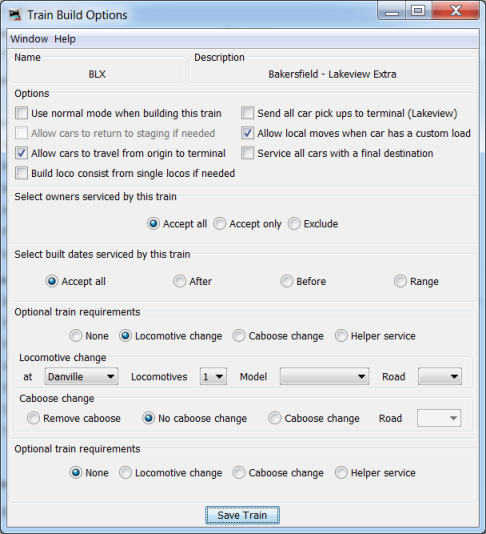
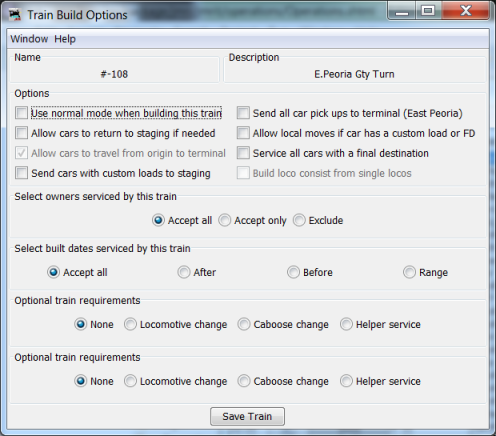
New feature for a train, the ability to send a car to staging even if a spur has an alternate track

diff --git a/java/src/jmri/jmrit/operations/trains/Train.java b/java/src/jmri/jmrit/operations/trains/Train.java
@@ -72,6 +72,7 @@ public class Train implements java.beans.PropertyChangeListener {
 	protected boolean _allowCarsReturnStaging = false; // when true allow cars to return to staging if necessary
 	protected boolean _serviceAllCarsWithFinalDestinations = false; // when true, service cars with final destinations
 	protected boolean _buildConsist = false; // when true, build a consist for this train using single locomotives
+	protected boolean _sendCarsWithCustomLoadsToStaging = false; // when true, send cars to staging if spurs full
 	protected Route _route = null;
 	protected Track _departureTrack; // the departure track from staging
 	protected Track _terminationTrack; // the termination track into staging
@@ -2454,6 +2455,19 @@ public class Train implements java.beans.PropertyChangeListener {
 		}
 	}
 
+	public boolean isSendCarsWithCustomLoadsToStagingEnabled() {
+		return _sendCarsWithCustomLoadsToStaging;
+	}
+
+	public void setSendCarsWithCustomLoadsToStagingEnabled(boolean enable) {
+		boolean old = _sendCarsWithCustomLoadsToStaging;
+		_sendCarsWithCustomLoadsToStaging = enable;
+		if (old != enable) {
+			setDirtyAndFirePropertyChange("SendCarsWithCustomLoadsToStaging", old ? "true" : "false", // NOI18N
+					enable ? "true" : "false"); // NOI18N
+		}
+	}
+
 	protected void setBuilt(boolean built) {
 		boolean old = _built;
 		_built = built;
@@ -3329,6 +3343,8 @@ public class Train implements java.beans.PropertyChangeListener {
 			_serviceAllCarsWithFinalDestinations = a.getValue().equals(Xml.TRUE);
 		if ((a = e.getAttribute(Xml.BUILD_CONSIST)) != null)
 			_buildConsist = a.getValue().equals(Xml.TRUE);
+		if ((a = e.getAttribute(Xml.SEND_CUSTOM_STAGING)) != null)
+			_sendCarsWithCustomLoadsToStaging = a.getValue().equals(Xml.TRUE);
 		if ((a = e.getAttribute(Xml.BUILT)) != null)
 			_built = a.getValue().equals(Xml.TRUE);
 		if ((a = e.getAttribute(Xml.BUILD)) != null)
@@ -3531,6 +3547,7 @@ public class Train implements java.beans.PropertyChangeListener {
 		e.setAttribute(Xml.ALLOW_RETURN, isAllowReturnToStagingEnabled() ? Xml.TRUE : Xml.FALSE);
 		e.setAttribute(Xml.ALLOW_THROUGH_CARS, isAllowThroughCarsEnabled() ? Xml.TRUE : Xml.FALSE);
 		e.setAttribute(Xml.SERVICE_ALL, isServiceAllCarsWithFinalDestinationsEnabled() ? Xml.TRUE : Xml.FALSE);
+		e.setAttribute(Xml.SEND_CUSTOM_STAGING, isSendCarsWithCustomLoadsToStagingEnabled() ? Xml.TRUE : Xml.FALSE);
 		e.setAttribute(Xml.BUILD_CONSIST, isBuildConsistEnabled() ? Xml.TRUE : Xml.FALSE);
 		e.setAttribute(Xml.BUILT, isBuilt() ? Xml.TRUE : Xml.FALSE);
 		e.setAttribute(Xml.BUILD, isBuildEnabled() ? Xml.TRUE : Xml.FALSE);

diff --git a/java/src/jmri/jmrit/operations/trains/TrainEditBuildOptionsFrame.java b/java/src/jmri/jmrit/operations/trains/TrainEditBuildOptionsFrame.java
@@ -120,6 +120,7 @@ public class TrainEditBuildOptionsFrame extends OperationsFrame implements java.
 	JCheckBox allowLocalMovesCheckBox = new JCheckBox(Bundle.getMessage("AllowLocalMoves"));
 	JCheckBox allowThroughCarsCheckBox = new JCheckBox(Bundle.getMessage("AllowThroughCars"));
 	JCheckBox serviceAllCarsCheckBox = new JCheckBox(Bundle.getMessage("ServiceAllCars"));
+	JCheckBox sendCustomStagngCheckBox = new JCheckBox(Bundle.getMessage("SendCustomToStaging"));
 	JCheckBox buildConsistCheckBox = new JCheckBox(Bundle.getMessage("BuildConsist"));
 
 	// text field
@@ -205,7 +206,8 @@ public class TrainEditBuildOptionsFrame extends OperationsFrame implements java.
 		addItemLeft(pOption, allowLocalMovesCheckBox, 1, 1);
 		addItemLeft(pOption, allowThroughCarsCheckBox, 0, 2);
 		addItemLeft(pOption, serviceAllCarsCheckBox, 1, 2);
-		addItemLeft(pOption, buildConsistCheckBox, 0, 3);
+		addItemLeft(pOption, sendCustomStagngCheckBox, 0, 3);
+		addItemLeft(pOption, buildConsistCheckBox, 1, 3);
 		pOption.setMaximumSize(new Dimension(2000, 250));
 
 		returnStagingCheckBox.setEnabled(false); // only enable if train departs and returns to same staging loc
@@ -388,6 +390,7 @@ public class TrainEditBuildOptionsFrame extends OperationsFrame implements java.
 			allowLocalMovesCheckBox.setSelected(_train.isAllowLocalMovesEnabled());
 			allowThroughCarsCheckBox.setSelected(_train.isAllowThroughCarsEnabled());
 			serviceAllCarsCheckBox.setSelected(_train.isServiceAllCarsWithFinalDestinationsEnabled());
+			sendCustomStagngCheckBox.setSelected(_train.isSendCarsWithCustomLoadsToStagingEnabled());
 			buildConsistCheckBox.setSelected(_train.isBuildConsistEnabled());
 			sendToTerminalCheckBox.setText(MessageFormat.format(Bundle.getMessage("SendToTerminal"),
 					new Object[] { _train.getTrainTerminatesName() }));
@@ -733,6 +736,7 @@ public class TrainEditBuildOptionsFrame extends OperationsFrame implements java.
 		_train.setAllowLocalMovesEnabled(allowLocalMovesCheckBox.isSelected());
 		_train.setAllowThroughCarsEnabled(allowThroughCarsCheckBox.isSelected());
 		_train.setServiceAllCarsWithFinalDestinationsEnabled(serviceAllCarsCheckBox.isSelected());
+		_train.setSendCarsWithCustomLoadsToStagingEnabled(sendCustomStagngCheckBox.isSelected());
 		_train.setBuildConsistEnabled(buildConsistCheckBox.isSelected());
 		_train.setBuiltStartYear(builtAfterTextField.getText().trim());
 		_train.setBuiltEndYear(builtBeforeTextField.getText().trim());

diff --git a/java/src/jmri/jmrit/operations/trains/TrainBuilder.java b/java/src/jmri/jmrit/operations/trains/TrainBuilder.java
@@ -175,6 +175,8 @@ public class TrainBuilder extends TrainCommon {
 			addLine(buildReport, FIVE, Bundle.getMessage("AllowThroughCars"));
 		if (train.isServiceAllCarsWithFinalDestinationsEnabled())
 			addLine(buildReport, FIVE, Bundle.getMessage("ServiceAllCars"));
+		if (train.isSendCarsWithCustomLoadsToStagingEnabled())
+			addLine(buildReport, FIVE, Bundle.getMessage("SendCustomToStaging"));
 		if (train.isBuildConsistEnabled())
 			addLine(buildReport, FIVE, Bundle.getMessage("BuildConsist"));
 		addLine(buildReport, ONE, BLANK_LINE); // add line
@@ -2553,7 +2555,7 @@ public class TrainBuilder extends TrainCommon {
 		if (car.getLoadName().equals(CarLoads.instance().getDefaultEmptyName())
 				|| car.getLoadName().equals(CarLoads.instance().getDefaultLoadName()) || car.getDestination() != null
 				|| car.getFinalDestination() != null)
-			return routeToSpurFound; // no schedule found for this car
+			return false; // no schedule found for this car
 		addLine(buildReport, FIVE, MessageFormat.format(Bundle.getMessage("buildSearchForSpur"),
 				new Object[] { car.toString(), car.getTypeName(), car.getLoadName(),
 						car.getLocationName() + ", " + car.getTrackName() }));
@@ -2641,7 +2643,7 @@ public class TrainBuilder extends TrainCommon {
 		}
 		addLine(buildReport, SEVEN, MessageFormat.format(Bundle.getMessage("buildCouldNotFindSpur"), new Object[] {
 				car.toString(), car.getLoadName() }));
-		if (routeToSpurFound) {
+		if (routeToSpurFound && !train.isSendCarsWithCustomLoadsToStagingEnabled()) {
 			addLine(buildReport, SEVEN, MessageFormat.format(Bundle.getMessage("buildHoldCarVaildRoute"), new Object[] {
 				car.toString(), car.getLocationName(), car.getTrackName() }));
 		} else {

diff --git a/java/src/jmri/jmrit/operations/trains/TrainManager.java b/java/src/jmri/jmrit/operations/trains/TrainManager.java
@@ -680,6 +680,7 @@ public class TrainManager implements java.beans.PropertyChangeListener {
 		newTrain.setAllowReturnToStagingEnabled(train.isAllowReturnToStagingEnabled());
 		newTrain.setAllowThroughCarsEnabled(train.isAllowThroughCarsEnabled());
 		newTrain.setBuildConsistEnabled(train.isBuildConsistEnabled());
+		newTrain.setSendCarsWithCustomLoadsToStagingEnabled(train.isSendCarsWithCustomLoadsToStagingEnabled());
 		newTrain.setBuildTrainNormalEnabled(train.isBuildTrainNormalEnabled());
 		newTrain.setSendCarsToTerminalEnabled(train.isSendCarsToTerminalEnabled());
 		newTrain.setServiceAllCarsWithFinalDestinationsEnabled(train.isServiceAllCarsWithFinalDestinationsEnabled());		

diff --git a/java/src/jmri/jmrit/operations/trains/Xml.java b/java/src/jmri/jmrit/operations/trains/Xml.java
@@ -71,6 +71,7 @@ public class Xml {
 	static final String ALLOW_RETURN = "allowReturn"; // NOI18N
 	static final String SERVICE_ALL = "serviceAll"; // NOI18N
 	static final String BUILD_CONSIST = "buildConsist"; // NOI18N
+	static final String SEND_CUSTOM_STAGING = "sendCustomStaging"; // NOI18N
 	
 	static final String BUILT = "built"; // NOI18N
 	static final String BUILD = "build"; // NOI18N
